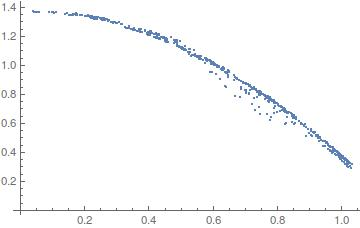
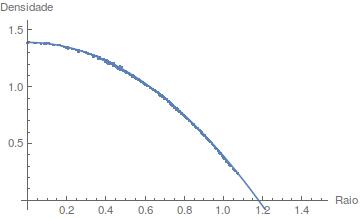
Novo upload comparacao densidade com modelo.

diff --git a/Francisco/Headers/GradKernel2D.hpp b/Francisco/Headers/GradKernel2D.hpp
@@ -19,7 +19,7 @@ double GradKernel2DX (double x, double y, double h)
 		}
 	if ( 1<=q && q<2)
 		{
-			R = (-3*x/(q*pow(h,2)))*pow(2-q,2)*(15/(14*pi*pow(h,2)));
+			R = (-3*x/(q*pow(h,2)))*pow(2-q,2)*(15/(14.0*pi*pow(h,2)));
 		}
 	if (2<=q)
 		{
@@ -32,22 +32,22 @@ double GradKernel2DY (double x, double y, double h)
 {
 	double R = 0;
 	double q = sqrt(pow(x,2)+pow(y,2))/h;
-	if ( q == 0);
+	if (q == 0)
 	{
 		return (0);
-	}
-	if (q<1 && q>=0)
-		{
-			R = ((-3*y/(q*pow(h,2)))*pow((2-q),2)+(12*y/(q*pow(h,2)))*pow(1-q,2))*(15/(14*pi*pow(h,2)));
+	} 
+	if (q>=0 && q<1.0 )
+		{	
+			R = ((-3*y/(q*pow(h,2)))*pow((2-q),2)+(12*y/(q*pow(h,2)))*pow(1-q,2))*(15/(14.0*pi*pow(h,2)));
 		}
-	if ( q>=1 && q<=2)
+	if ( 1<=q && q<2)
 		{
-			R = (-3*y/(q*h))*pow(2-q,2)*(15/(14*pi*pow(h,2)));
+			R = (-3*y/(q*pow(h,2)))*pow((2-q),2)*(15/(14.0*pi*pow(h,2)));
 		}
 	if (2<=q)
 		{
 			R = 0;
 		}
 	return (R);
-}
+	}
 #endif //GRADKERNEL2D_H

diff --git a/Francisco/Teste.cpp b/Francisco/Teste.cpp
@@ -64,7 +64,7 @@ void ParticleSystem::Boundaries()
 					{
 						if (Particles[i].GetV0() > 0)
 						{
-							Particles[i].SetV0(-0.6*Particles[i].GetX0());
+							Particles[i].SetV0(-0.6*Particles[i].GetV0());
 						}
 					}
 				if (Particles[i].GetX0()< -1)
@@ -173,7 +173,7 @@ int main()
 {
 clock_t tStart = clock();
 //smoothing lenght
-double h = 0.2;
+double h = 0.1;
 
 ParticleSystem * PS1 = new ParticleSystem;
 PS1->initialize(0.004, h);
@@ -210,5 +210,15 @@ if (myfile3.is_open())
 	}
 }
 
+ofstream myfile4 ("/home/francisco/myfile6.txt");
+{
+if (myfile4.is_open())
+{	
+	for (int l = 0; l<1000; l++)
+	{
+		myfile4 << PS1->Particles[l].GetX0() << "," << PS1->Particles[l].GetX1() << "\n";
+	}
+}
+}
 
 }
